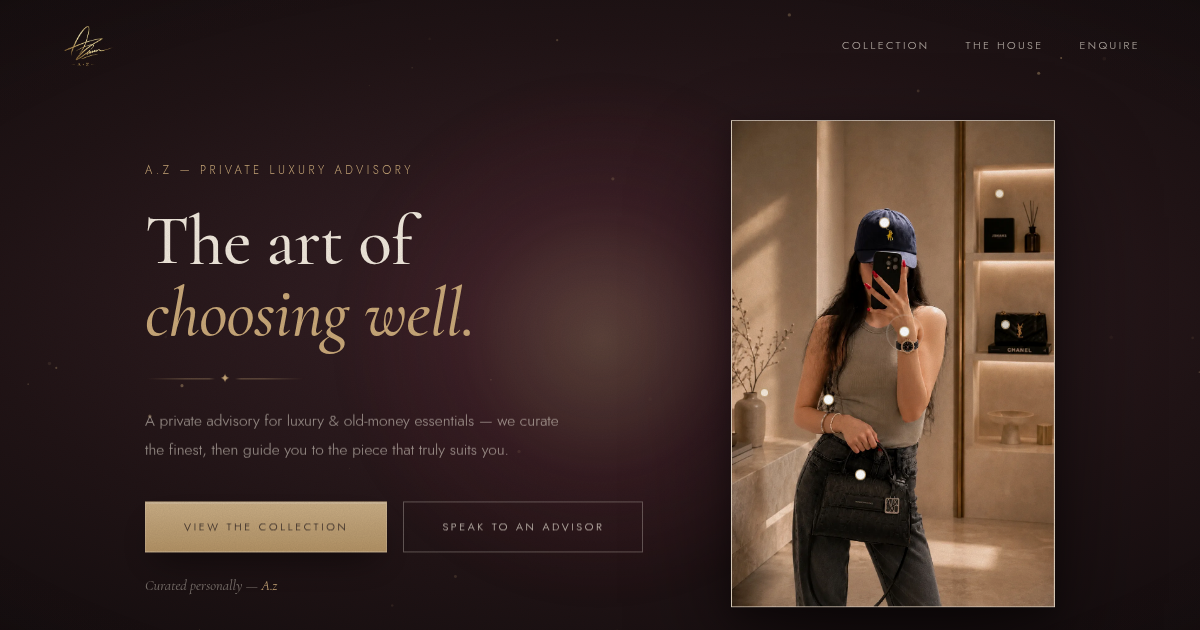
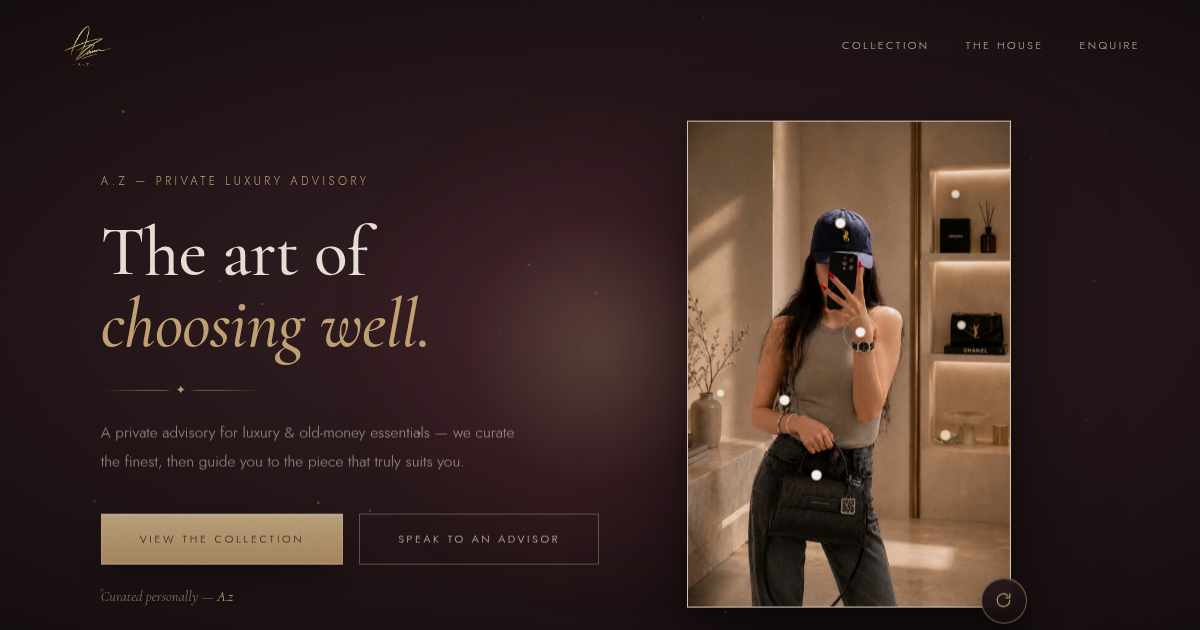
The sunglasses are physically on the shelf now
The Gucci rectangular is composited into the salon photograph itself —
cut out, relit for the niche's low amber key, softened to the shelf's
depth of field, mirrored so the black front faces the room, and grounded
with a contact shadow. The vitrine marker moved onto the piece.

Claude-Session: https://claude.ai/code/session_01CEFTYk1h3BnHq8CD9kzt6z

diff --git a/index.html b/index.html
@@ -94,7 +94,7 @@
           <button class="spot" data-piece="bag" data-label="The Bag" style="--x:40%; --y:73%" aria-label="View the bag"><i></i></button>
           <button class="spot spot--salon spot--edge-r" data-piece="parfum" data-label="The Parfum" style="--x:83%; --y:15%" aria-label="View the parfum shelf"><i></i></button>
           <button class="spot spot--salon spot--edge-r" data-piece="shelf" data-label="The Display" style="--x:85%; --y:42%" aria-label="View the display shelf"><i></i></button>
-          <button class="spot spot--vitrine spot--edge-r" data-piece="eyewear" data-label="The Eyewear" style="--x:86%; --y:66%" aria-label="Enter the eyewear vitrine"><i></i></button>
+          <button class="spot spot--vitrine spot--edge-r" data-piece="eyewear" data-label="The Eyewear" style="--x:80%; --y:64.6%" aria-label="Enter the eyewear vitrine"><i></i></button>
           <button class="spot spot--salon spot--edge-l" data-piece="vase" data-label="The Blossom" style="--x:10%; --y:56%" aria-label="View the blossom vase"><i></i></button>
         </div>
         <div class="holo" id="holo" aria-hidden="true">
